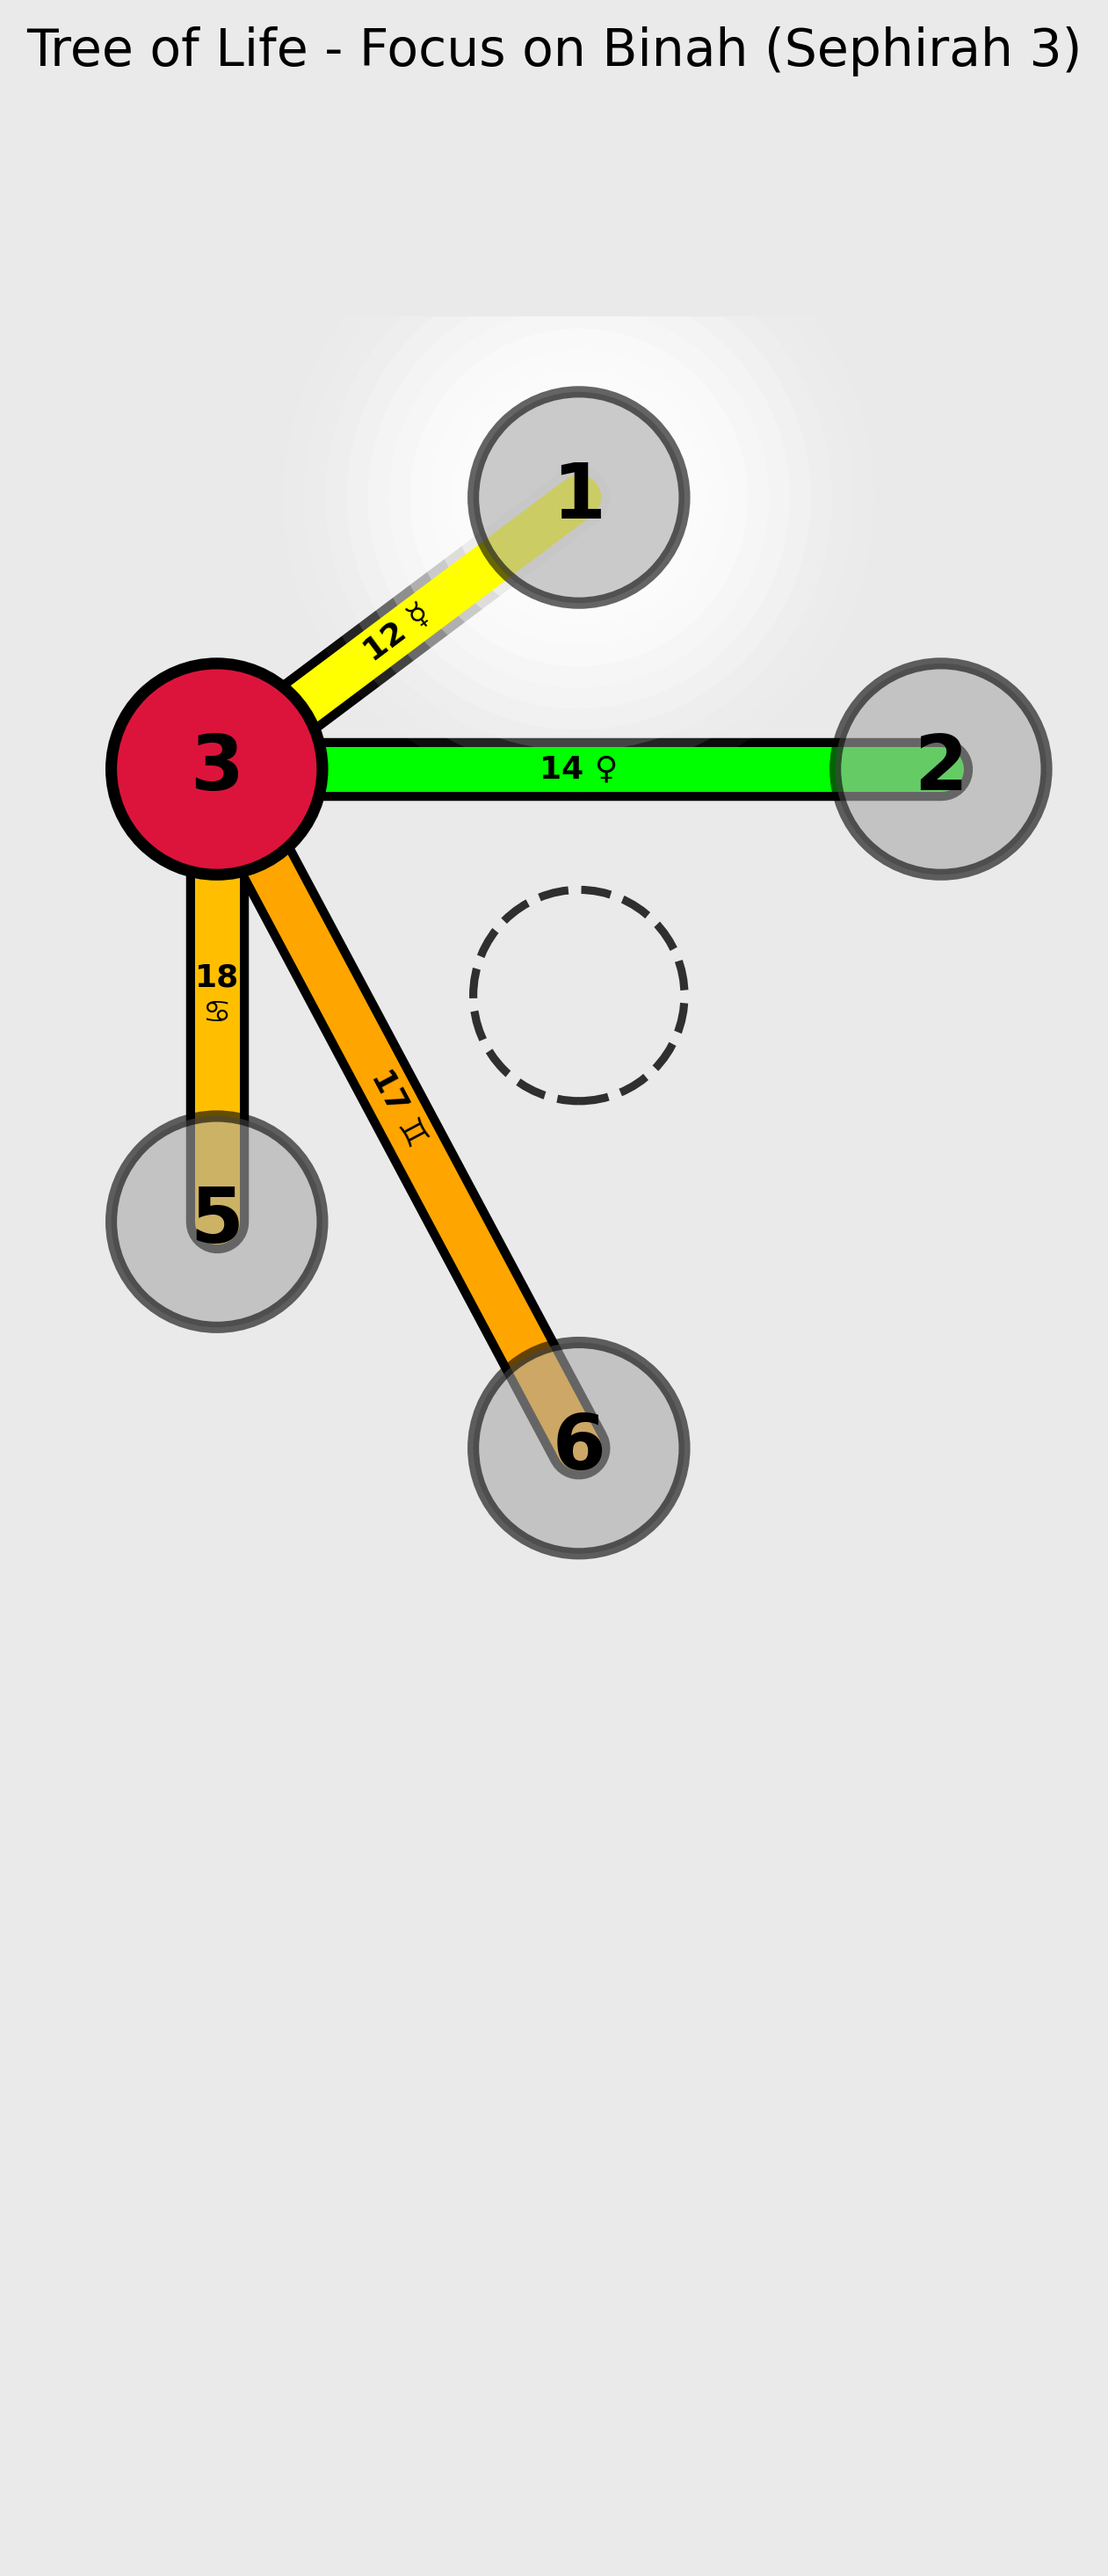
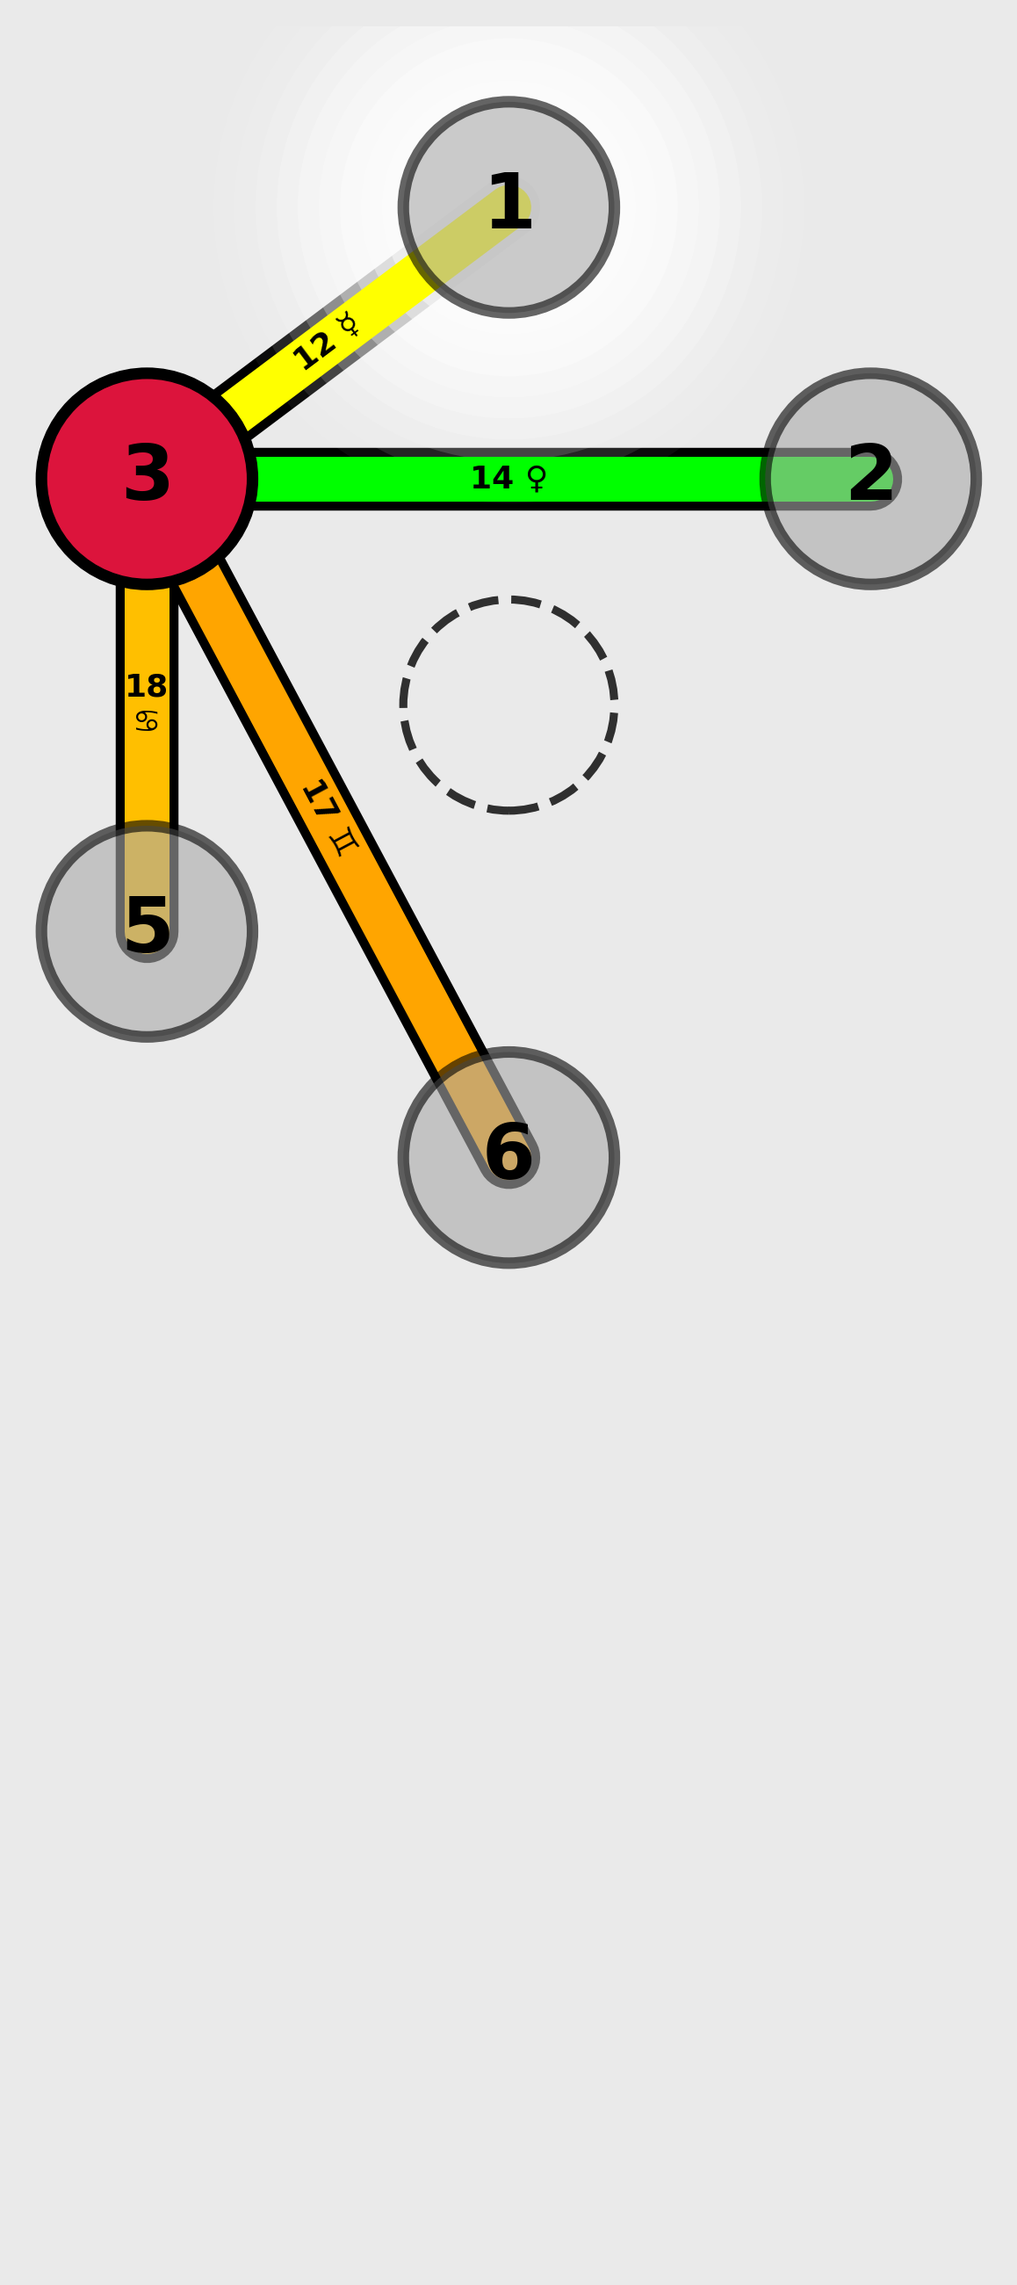
feat: add optional title display for Tree of Life diagrams

diff --git a/TreeOfLife.py b/TreeOfLife.py
@@ -317,7 +317,8 @@ class TreeOfLife:
                display: bool = True,
                save_to_file: Optional[str] = None,
                figsize: Tuple[float, float] = (7.5, 11),
-               dpi: int = 300) -> None:
+               dpi: int = 300,
+               show_title: bool = False) -> None:
         """
         Render the Tree of Life diagram.
 
@@ -327,6 +328,7 @@ class TreeOfLife:
             save_to_file: If provided, save the diagram to this filename
             figsize: Size of the figure (width, height) in inches
             dpi: Resolution in dots per inch for saving the figure
+            show_title: Whether to display the title on the diagram
         """
         # Setup the plot
         fig, ax = plt.subplots(figsize=figsize)
@@ -591,13 +593,14 @@ class TreeOfLife:
             )
             ax.add_patch(circle)
 
-        # Add title if focusing on a specific sephirah
-        if focus_sephirah is not None:
-            sephirah_name = self.sephiroth[focus_sephirah].name
-            title = f"Tree of Life - Focus on {sephirah_name} (Sephirah {focus_sephirah})"
-            fig.suptitle(title, fontsize=14)
-        else:
-            fig.suptitle("The Tree of Life", fontsize=14)
+        # Add title if enabled
+        if show_title:
+            if focus_sephirah is not None:
+                sephirah_name = self.sephiroth[focus_sephirah].name
+                title = f"Tree of Life - Focus on {sephirah_name} (Sephirah {focus_sephirah})"
+                fig.suptitle(title, fontsize=14)
+            else:
+                pass
 
         # Save the figure if a filename is provided
         if save_to_file:
